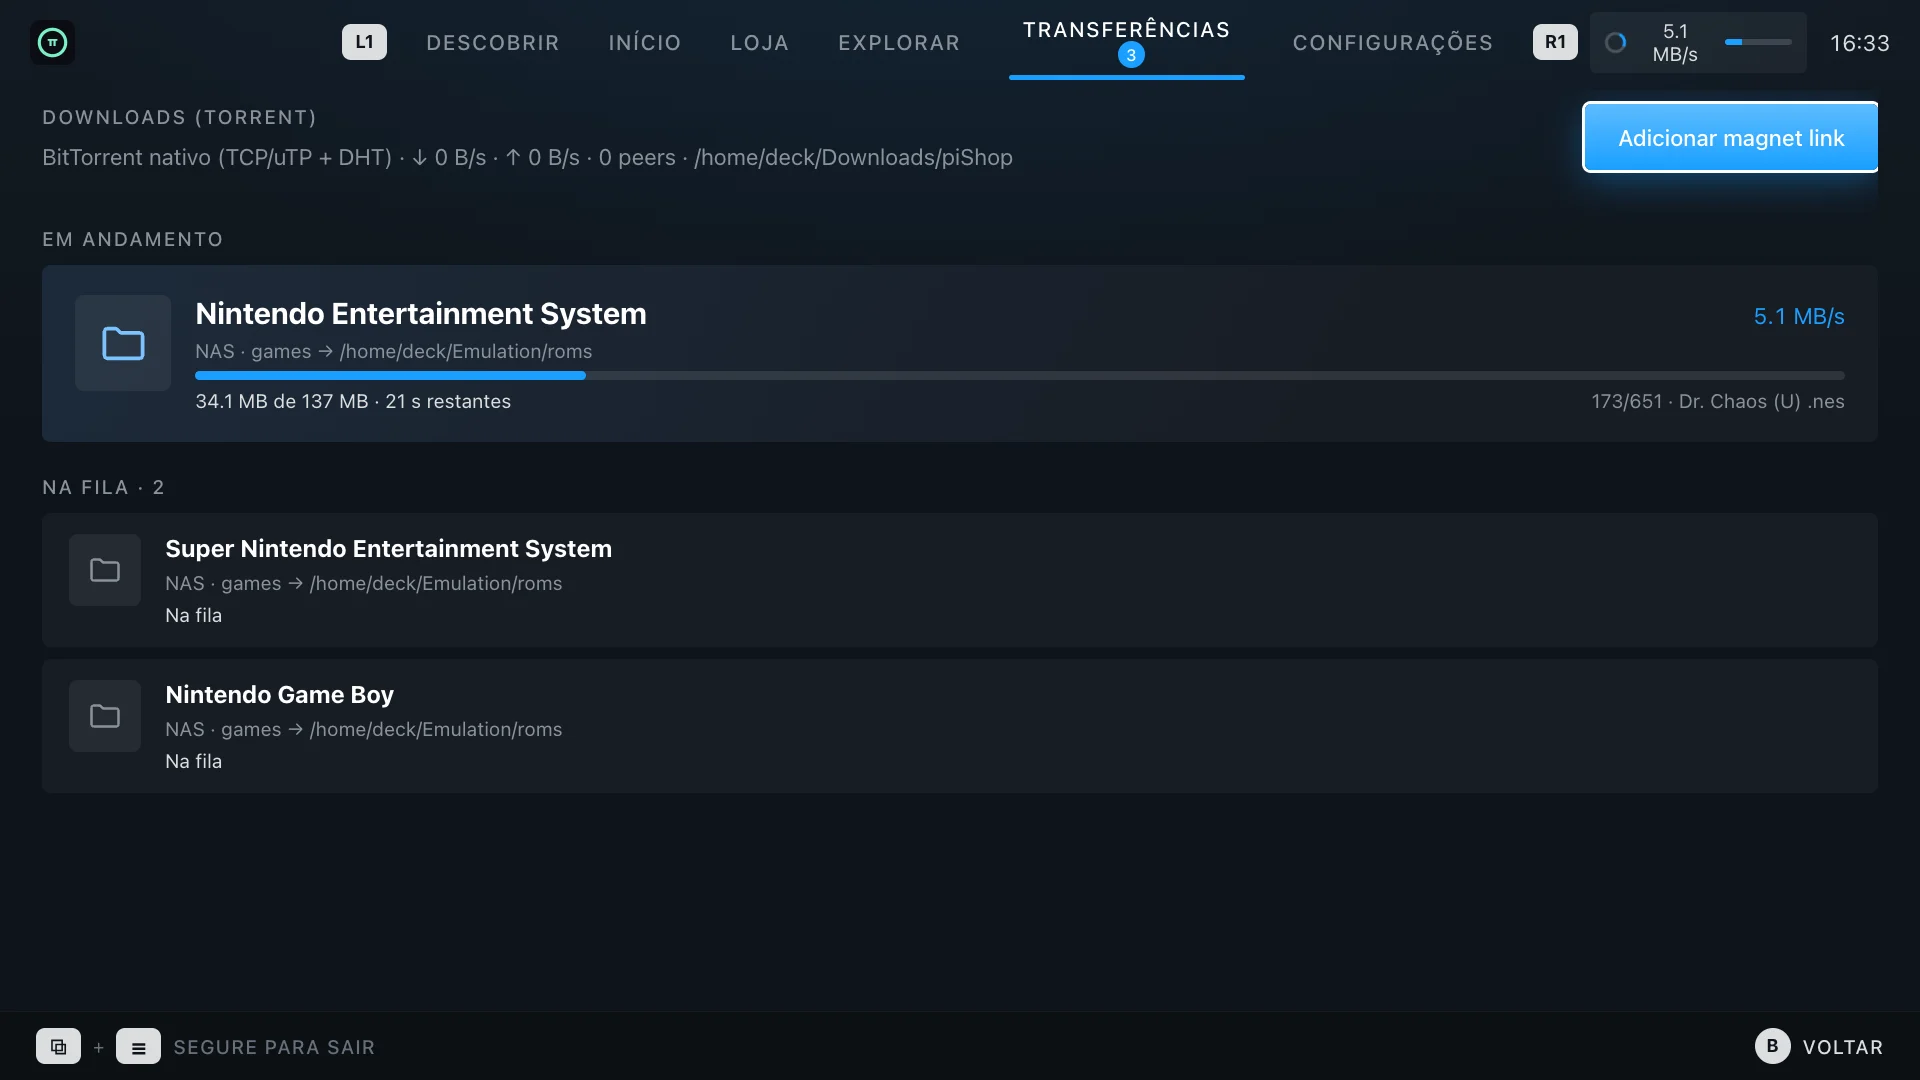
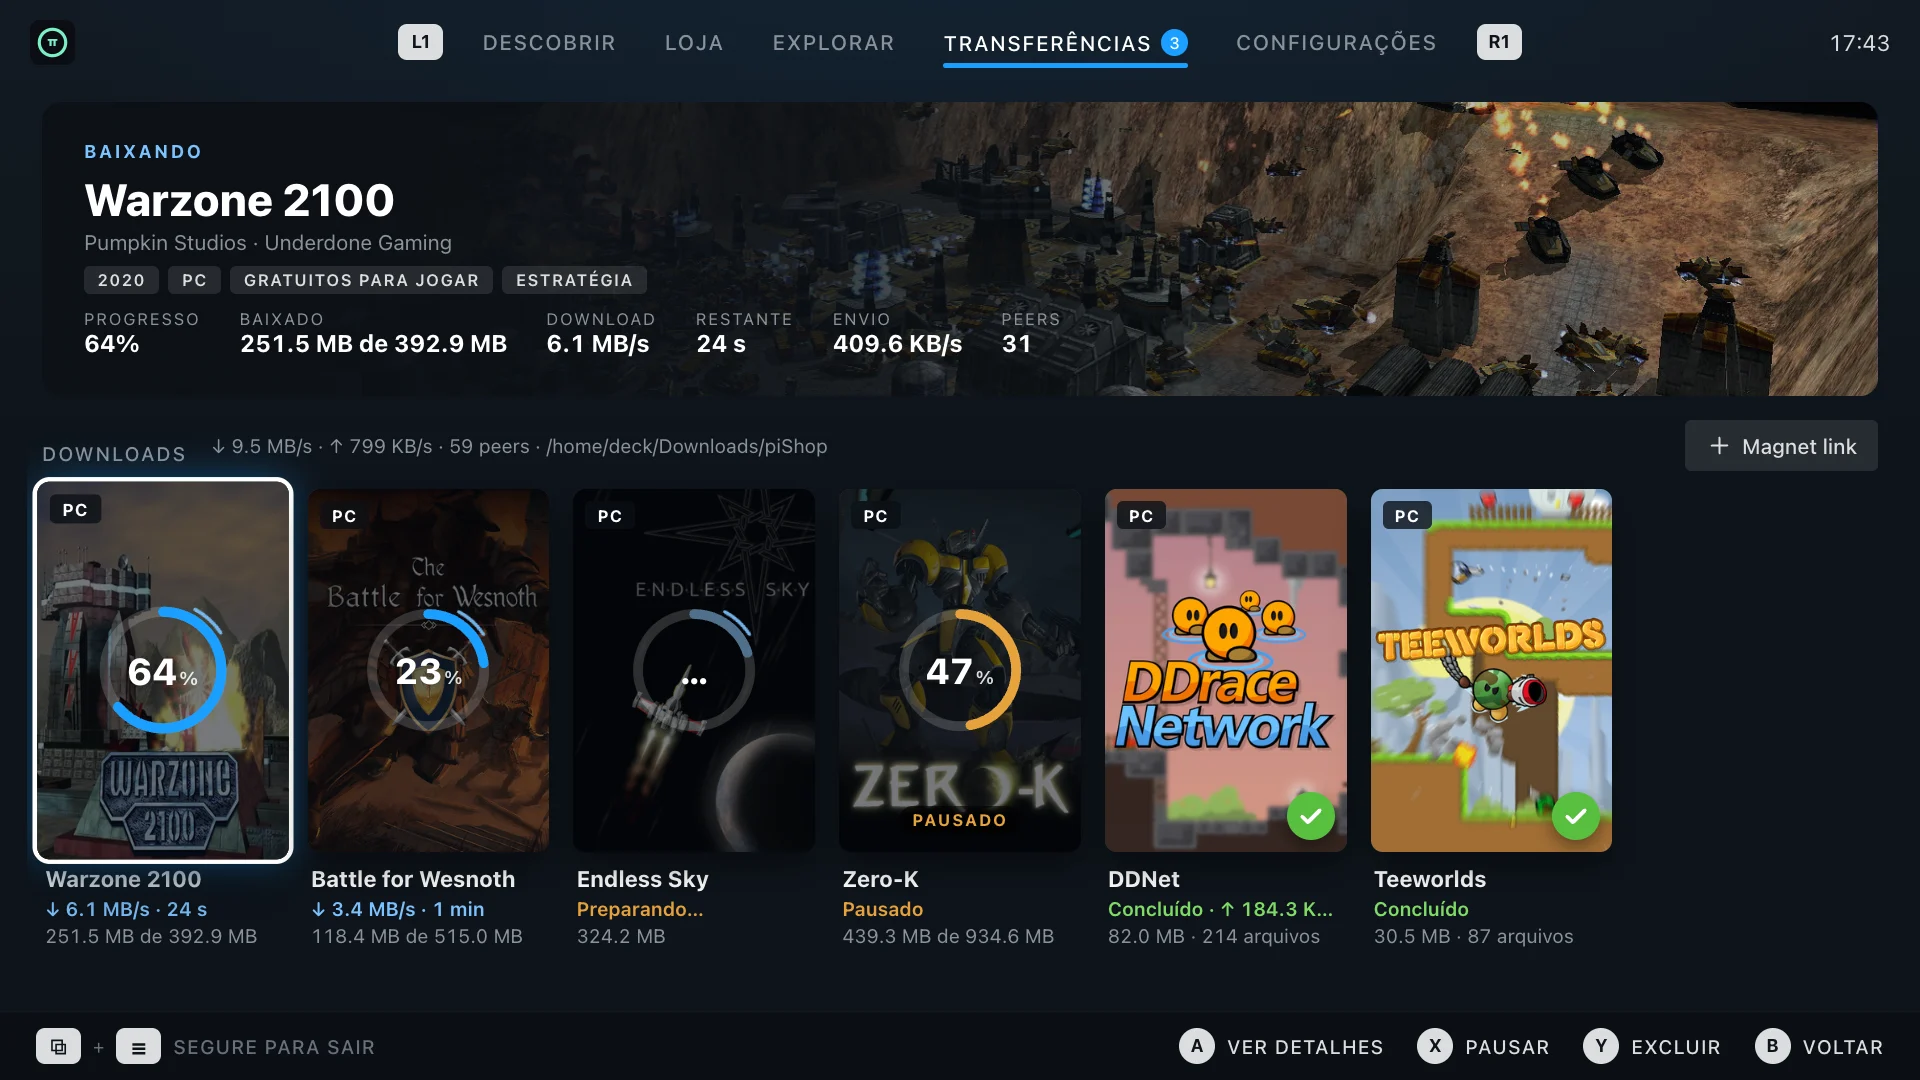
Landing: recapture screens for the current app, refresh feature text
- New captures on ROG Ally and Steam Deck: Discover grid, release details
  and the game-centric Transfers replace the old rows and Home screens.
  The trailer is captured playing.
- scripts/screenshots.mjs follows the current tabs; SHOTS_DEMO=1 fills
  Transfers with free, open-source games (Steam art), mocked in the capture
  browser only.
- Features, gallery captions, FAQ and README describe native TPB, the new
  Transfers and the speed cap; video playback is gone. Roadmap adds
  installers as the next stage and marks native TPB as shipped.

Claude-Session: https://claude.ai/code/session_01C8UxmRg8xQ5xe6BEWaXd6j

diff --git a/docs/app.js b/docs/app.js
@@ -88,6 +88,7 @@
       'footer.releases': 'Versões',
       'footer.issues': 'Reportar um problema',
       'footer.script': 'Ver o script',
+      'status.next': 'Próxima etapa',
       'status.wip': 'Em andamento',
       'status.research': 'Em estudo',
       'status.idea': 'Ideia',
@@ -159,6 +160,7 @@
       'footer.releases': 'Releases',
       'footer.issues': 'Report an issue',
       'footer.script': 'View the script',
+      'status.next': 'Up next',
       'status.wip': 'In progress',
       'status.research': 'Researching',
       'status.idea': 'Idea',
@@ -186,15 +188,15 @@
   const FEATURES = [
     {
       icon: 'sparkles',
-      shot: 'discover-rows',
+      shot: 'discover-grid',
       tags: ['isitcracked', 'SteamGridDB'],
       pt: [
         'Descobrir',
-        'Os lançamentos mais recentes num visual Big Picture: destaque rotativo, fileiras por data, busca e rolagem infinita — com o status e o grupo de cada crack, e capas guardadas em cache no aparelho.',
+        'Os lançamentos mais recentes num visual Big Picture: os 5 cracks mais novos em destaque (troque com L2/R2), a busca no centro e a grade “Cracks recentes”, que vai carregando até o último jogo — com o status e o grupo de cada crack, e capas guardadas em cache no aparelho.',
       ],
       en: [
         'Discover',
-        "The latest releases in a Big Picture look: rotating spotlight, rows by date, search and endless scrolling — with each crack's status and group, and covers cached on the device.",
+        "The latest releases in a Big Picture look: the 5 newest cracks in the spotlight (flip with L2/R2), search front and center and a “Recent cracks” grid that keeps loading to the very last game — with each crack's status and group, and covers cached on the device.",
       ],
     },
     {
@@ -214,24 +216,24 @@
       tags: ['yt-dlp'],
       pt: [
         'Trailer com um toque',
-        'Aperte ↑ na página do jogo e o trailer desliza para cima, como no Xbox; ↓ volta aos detalhes. O vídeo é encontrado com o yt-dlp.',
+        'Aperte ↑ na página do jogo e o trailer entra em tela cheia, sem cortes, como no Xbox — só uma barra embaixo para voltar ou silenciar. O vídeo é encontrado com o yt-dlp.',
       ],
       en: [
         'One-press trailers',
-        'Press ↑ on a game page and the trailer slides up, Xbox style; ↓ goes back to the details. The video is found with yt-dlp.',
+        'Press ↑ on a game page and the trailer takes the whole screen, uncropped, Xbox style — with just a bar at the bottom to go back or mute. The video is found with yt-dlp.',
       ],
     },
     {
       icon: 'search',
       shot: 'store',
-      tags: ['Prowlarr'],
+      tags: ['The Pirate Bay', 'Prowlarr'],
       pt: [
         'Loja',
-        'Busque nos indexadores do seu Prowlarr, em consoles ou PC. Uma lista compacta com tamanho, data, seeders e leechers, ordenação e filtro por plataforma; o jogo aparece no cabeçalho com arte e informações. As buscas ficam em cache para poupar os limites dos indexadores.',
+        'Busca nativa no The Pirate Bay e nos indexadores do seu Prowlarr, ao mesmo tempo, em consoles ou PC. Uma lista compacta com tamanho, data, seeders e leechers, ordenação e filtro por plataforma; o jogo aparece no cabeçalho com arte e informações, e os detalhes do torrent já vêm com ele. As buscas ficam em cache para poupar os limites dos indexadores.',
       ],
       en: [
         'Store',
-        "Search your Prowlarr indexers, for consoles or PC. A compact list with size, date, seeders and leechers, sorting and a platform filter; the game shows up in the header with art and details. Searches are cached to spare your indexers' limits.",
+        "Native The Pirate Bay search and your Prowlarr indexers, side by side, for consoles or PC. A compact list with size, date, seeders and leechers, sorting and a platform filter; the game shows up in the header with art and details, and the release details carry it along. Searches are cached to spare your indexers' limits.",
       ],
     },
     {
@@ -252,22 +254,24 @@
       tags: ['librqbit'],
       pt: [
         'BitTorrent nativo',
-        'Motor próprio com TCP, uTP e DHT, links magnet e retomada automática. Os downloads vão direto para <code>roms/&lt;sistema&gt;</code>, e vídeos podem ser assistidos enquanto baixam.',
+        'Motor próprio com TCP, uTP e DHT, links magnet, retomada automática e limite de velocidade em Configurações → Downloads. Os downloads vão direto para <code>roms/&lt;sistema&gt;</code>.',
       ],
       en: [
         'Native BitTorrent',
-        'A built-in engine with TCP, uTP and DHT, magnet links and automatic resume. Downloads go straight to <code>roms/&lt;system&gt;</code>, and videos can be watched while they download.',
+        'A built-in engine with TCP, uTP and DHT, magnet links, automatic resume and a speed cap in Settings → Downloads. Downloads go straight to <code>roms/&lt;system&gt;</code>.',
       ],
     },
     {
       icon: 'download',
+      shot: 'transfers',
+      tags: ['Steam', 'TheGamesDB'],
       pt: [
         'Transferências',
-        'Uma fila única para cópias da rede e downloads: velocidade, progresso, tempo restante, cancelar e repetir — com o progresso sempre à vista no topo da tela.',
+        'Cada download aparece como o jogo: capa, anel de progresso e, embaixo, velocidade e tempo restante. Os dados vêm da Steam, do TheGamesDB, do SteamGridDB e do isitcracked, nessa ordem. Pause, pare ou exclua — com ou sem os arquivos. As cópias da rede ficam na mesma tela.',
       ],
       en: [
         'Transfers',
-        'One queue for network copies and downloads: speed, progress, time left, cancel and retry — with progress always in sight at the top of the screen.',
+        'Every download shows up as the game: cover, a progress ring and, below it, speed and time left. Game data comes from Steam, TheGamesDB, SteamGridDB and isitcracked, in that order. Pause, stop or delete — with or without the files. Network copies live on the same screen.',
       ],
     },
     {
@@ -307,11 +311,11 @@
       icon: 'shield',
       pt: [
         'Suas chaves, seu aparelho',
-        'Prowlarr, TheGamesDB e isitcracked são configurados em Configurações → Serviços. Nenhuma chave vem embutida, nada passa por servidores do piShop e não há telemetria.',
+        'The Pirate Bay, Prowlarr, TheGamesDB e isitcracked são configurados em Configurações → Serviços. Nenhuma chave vem embutida, nada passa por servidores do piShop e não há telemetria.',
       ],
       en: [
         'Your keys, your device',
-        "Prowlarr, TheGamesDB and isitcracked are set up in Settings → Services. No keys are baked in, nothing goes through piShop servers and there's no telemetry.",
+        "The Pirate Bay, Prowlarr, TheGamesDB and isitcracked are set up in Settings → Services. No keys are baked in, nothing goes through piShop servers and there's no telemetry.",
       ],
     },
     {
@@ -329,12 +333,25 @@
 
   const ROADMAP = [
     {
+      status: 'next',
+      pt: [
+        'Instaladores',
+        'Do download ao jogo pronto: o piShop instala o que baixou e cria o atalho na Steam, direto de Transferências.',
+        ['Instalar a partir de “Ver detalhes” em Transferências', 'Atalho na Steam com a capa e a arte do jogo'],
+      ],
+      en: [
+        'Installers',
+        'From download to a ready-to-play game: piShop installs what it downloaded and adds the Steam shortcut, right from Transfers.',
+        ['Install from “View details” in Transfers', "A Steam shortcut with the game's cover and art"],
+      ],
+    },
+    {
       status: 'research',
       pt: [
         'Prowlarr embutido',
         'Buscar nos indexadores direto do piShop, sem precisar de um servidor Prowlarr rodando na rede.',
         [
-          'Indexadores nativos — The Pirate Bay (via apibay) já em desenvolvimento, 1337x em seguida',
+          'Indexadores nativos — o The Pirate Bay já funciona; 1337x em seguida',
           'Definições Cardigann: o mesmo formato YAML do Prowlarr e do Jackett',
           'Um Prowlarr externo continua opcional',
         ],
@@ -343,7 +360,7 @@
         'Embedded Prowlarr',
         'Search indexers straight from piShop, without a Prowlarr server running on your network.',
         [
-          'Native indexers — The Pirate Bay (via apibay) already in development, 1337x next',
+          'Native indexers — The Pirate Bay already works; 1337x next',
           'Cardigann definitions: the same YAML format Prowlarr and Jackett use',
           'An external Prowlarr stays optional',
         ],
@@ -419,7 +436,7 @@
       ],
       [
         'O que preciso configurar?',
-        'Para explorar o NAS e baixar por link magnet, só o próprio compartilhamento. A Loja usa o seu Prowlarr (endereço e chave de API); o Descobrir e os detalhes dos jogos usam as APIs do isitcracked e do TheGamesDB. Tudo fica em Configurações → Serviços. A loja da Steam e o SteamGridDB não pedem chave.',
+        'Para explorar o NAS e baixar por link magnet, só o próprio compartilhamento. A Loja busca no The Pirate Bay (só o endereço da API) e/ou no seu Prowlarr (endereço e chave de API); o Descobrir e os detalhes dos jogos usam as APIs do isitcracked e do TheGamesDB. Tudo fica em Configurações → Serviços. A loja da Steam e o SteamGridDB não pedem chave.',
       ],
       [
         'Por que o instalador baixa um navegador?',
@@ -457,7 +474,7 @@
       ],
       [
         'What do I need to set up?',
-        "To browse your NAS and download magnet links, just the share itself. The Store uses your Prowlarr (address and API key); Discover and game details use the isitcracked and TheGamesDB APIs. It all lives in Settings → Services. The Steam store and SteamGridDB don't need a key.",
+        "To browse your NAS and download magnet links, just the share itself. The Store searches The Pirate Bay (just the API address) and/or your Prowlarr (address and API key); Discover and game details use the isitcracked and TheGamesDB APIs. It all lives in Settings → Services. The Steam store and SteamGridDB don't need a key.",
       ],
       [
         'Why does the installer download a browser?',
@@ -481,13 +498,13 @@
   const SCREENS = [
     {
       id: 'discover',
-      pt: ['Descobrir', 'Lançamentos em destaque no estilo Big Picture, com fileiras, busca e rolagem infinita.'],
-      en: ['Discover', 'Featured releases in a Big Picture style, with rows, search and endless scrolling.'],
+      pt: ['Descobrir', 'Os 5 cracks mais novos em destaque no estilo Big Picture — L2/R2 trocam — e a busca no centro.'],
+      en: ['Discover', 'The 5 newest cracks in a Big Picture spotlight — L2/R2 flip through them — with search front and center.'],
     },
     {
-      id: 'discover-rows',
-      pt: ['Fileiras', 'Desça com o direcional: cracks e lançamentos recentes, com as capas em cache no aparelho.'],
-      en: ['Rows', 'Scroll down with the d-pad: recent cracks and releases, with covers cached on the device.'],
+      id: 'discover-grid',
+      pt: ['Cracks recentes', 'Uma grade só, que vai carregando enquanto você desce — até o último jogo do isitcracked.'],
+      en: ['Recent cracks', 'A single grid that keeps loading as you scroll — all the way to the last game on isitcracked.'],
     },
     {
       id: 'game',
@@ -496,13 +513,18 @@
     },
     {
       id: 'trailer',
-      pt: ['Trailer', 'Aperte ↑ e o trailer desliza para cima, como no Xbox. ↓ volta aos detalhes.'],
-      en: ['Trailer', 'Press ↑ and the trailer slides up, Xbox style. ↓ goes back to the details.'],
+      pt: ['Trailer', 'Aperte ↑ e o trailer ocupa a tela inteira, sem cortes. ↓ ou B voltam aos detalhes.'],
+      en: ['Trailer', 'Press ↑ and the trailer fills the whole screen, uncropped. ↓ or B go back to the details.'],
     },
     {
       id: 'store',
-      pt: ['Loja', 'Resultados dos indexadores do seu Prowlarr com tamanho, data, seeders e leechers — e o jogo no cabeçalho.'],
-      en: ['Store', 'Results from your Prowlarr indexers with size, date, seeders and leechers — and the game in the header.'],
+      pt: ['Loja', 'Resultados do The Pirate Bay e do seu Prowlarr com tamanho, data, seeders e leechers — e o jogo no cabeçalho.'],
+      en: ['Store', 'Results from The Pirate Bay and your Prowlarr with size, date, seeders and leechers — and the game in the header.'],
+    },
+    {
+      id: 'release',
+      pt: ['Torrent', 'Os detalhes do lançamento já trazem a arte e o crack do jogo encontrado. Um botão e ele começa a baixar.'],
+      en: ['Release', "A release's details carry the matched game's art and crack info. One button and it starts downloading."],
     },
     {
       id: 'explorer',
@@ -511,18 +533,13 @@
     },
     {
       id: 'transfers',
-      pt: ['Transferências', 'A fila de cópias e downloads, com velocidade, progresso e tempo restante.'],
-      en: ['Transfers', 'The queue of copies and downloads, with speed, progress and time left.'],
-    },
-    {
-      id: 'home',
-      pt: ['Início', 'Atalhos para as suas fontes, as transferências e o espaço livre.'],
-      en: ['Home', 'Shortcuts to your sources, transfers and free space.'],
+      pt: ['Transferências', 'Cada download com a capa do jogo, um anel de progresso, velocidade e tempo restante.'],
+      en: ['Transfers', "Every download with the game's cover, a progress ring, speed and time left."],
     },
     {
       id: 'settings',
-      pt: ['Configurações', 'Fontes de jogos, serviços (Prowlarr, TheGamesDB, isitcracked), tela e controle.'],
-      en: ['Settings', 'Game sources, services (Prowlarr, TheGamesDB, isitcracked), display and controller.'],
+      pt: ['Configurações', 'Fontes de jogos, serviços (The Pirate Bay, Prowlarr, TheGamesDB, isitcracked), limite de download, tela e controle.'],
+      en: ['Settings', 'Game sources, services (The Pirate Bay, Prowlarr, TheGamesDB, isitcracked), download speed cap, display and controller.'],
     },
   ]
   const DEVICES = { ally: { name: 'ROG Ally', w: 1920, h: 1080 }, deck: { name: 'Steam Deck', w: 1280, h: 800 } }

diff --git a/docs/index.html b/docs/index.html
@@ -210,7 +210,7 @@
           <li>smb-rs · SMB2/3</li>
           <li>yt-dlp</li>
           <li>Steam · SteamGridDB · TheGamesDB</li>
-          <li>Prowlarr</li>
+          <li>The Pirate Bay · Prowlarr</li>
           <li>isitcracked</li>
         </ul>
       </section>

diff --git a/docs/style.css b/docs/style.css
@@ -1173,6 +1173,10 @@ kbd {
   border-radius: 50%;
   background: currentColor;
 }
+.status.next {
+  color: #6fdc8c;
+  background: rgba(111, 220, 140, 0.1);
+}
 .status.wip {
   color: var(--amber);
   background: rgba(255, 196, 107, 0.1);

diff --git a/README.md b/README.md
@@ -45,8 +45,9 @@ Nada é instalado no sistema: tudo fica em `~/Applications/piShop` e `~/.local/s
 Um app nativo para SteamOS (Steam Deck, ROG Ally, Legion Go…) feito para o controle:
 
 - **Descobrir** — lançamentos e cracks recentes em visual Big Picture, página do jogo com trailer, sinopse (Steam / TheGamesDB) e arte (SteamGridDB).
-- **Loja** — busca nos indexadores do seu Prowlarr, com detalhes do torrent e download direto para `roms/<sistema>`.
-- **BitTorrent nativo** — TCP/uTP, DHT, retomada e streaming de vídeo.
+- **Loja** — busca nativa no The Pirate Bay e nos indexadores do seu Prowlarr, com detalhes do torrent e download direto para `roms/<sistema>`.
+- **Transferências** — cada download com a capa do jogo e um anel de progresso; dados da Steam, TheGamesDB, SteamGridDB e isitcracked, nessa ordem.
+- **BitTorrent nativo** — TCP/uTP, DHT, retomada e limite de velocidade.
 - **Explorar** — compartilhamentos de rede (SMB) num explorador de dois painéis, com fila de cópias para o aparelho.
 - **Interface SteamOS** — abas em L1/R1, legenda de botões, analógico direito para rolar, teclado da Steam sob demanda, escala automática (Deck / Ally / TV).
 
@@ -70,5 +71,5 @@ Releases: `git tag v0.1.0 && git push --tags` (ou *Actions → Release → Run w
 
 ## Aviso · Disclaimer
 
-O piShop não hospeda, indexa nem distribui conteúdo. Ele se conecta a serviços que **você** configura (Prowlarr, armazenamento de rede, APIs públicas). Use apenas com conteúdo que você tem o direito de baixar.
+O piShop não hospeda, indexa nem distribui conteúdo. Ele se conecta a serviços que **você** configura (The Pirate Bay, Prowlarr, armazenamento de rede, APIs públicas). Use apenas com conteúdo que você tem o direito de baixar.
 *piShop does not host, index or distribute any content. It connects to services **you** configure. Only use it with content you have the right to download.*
